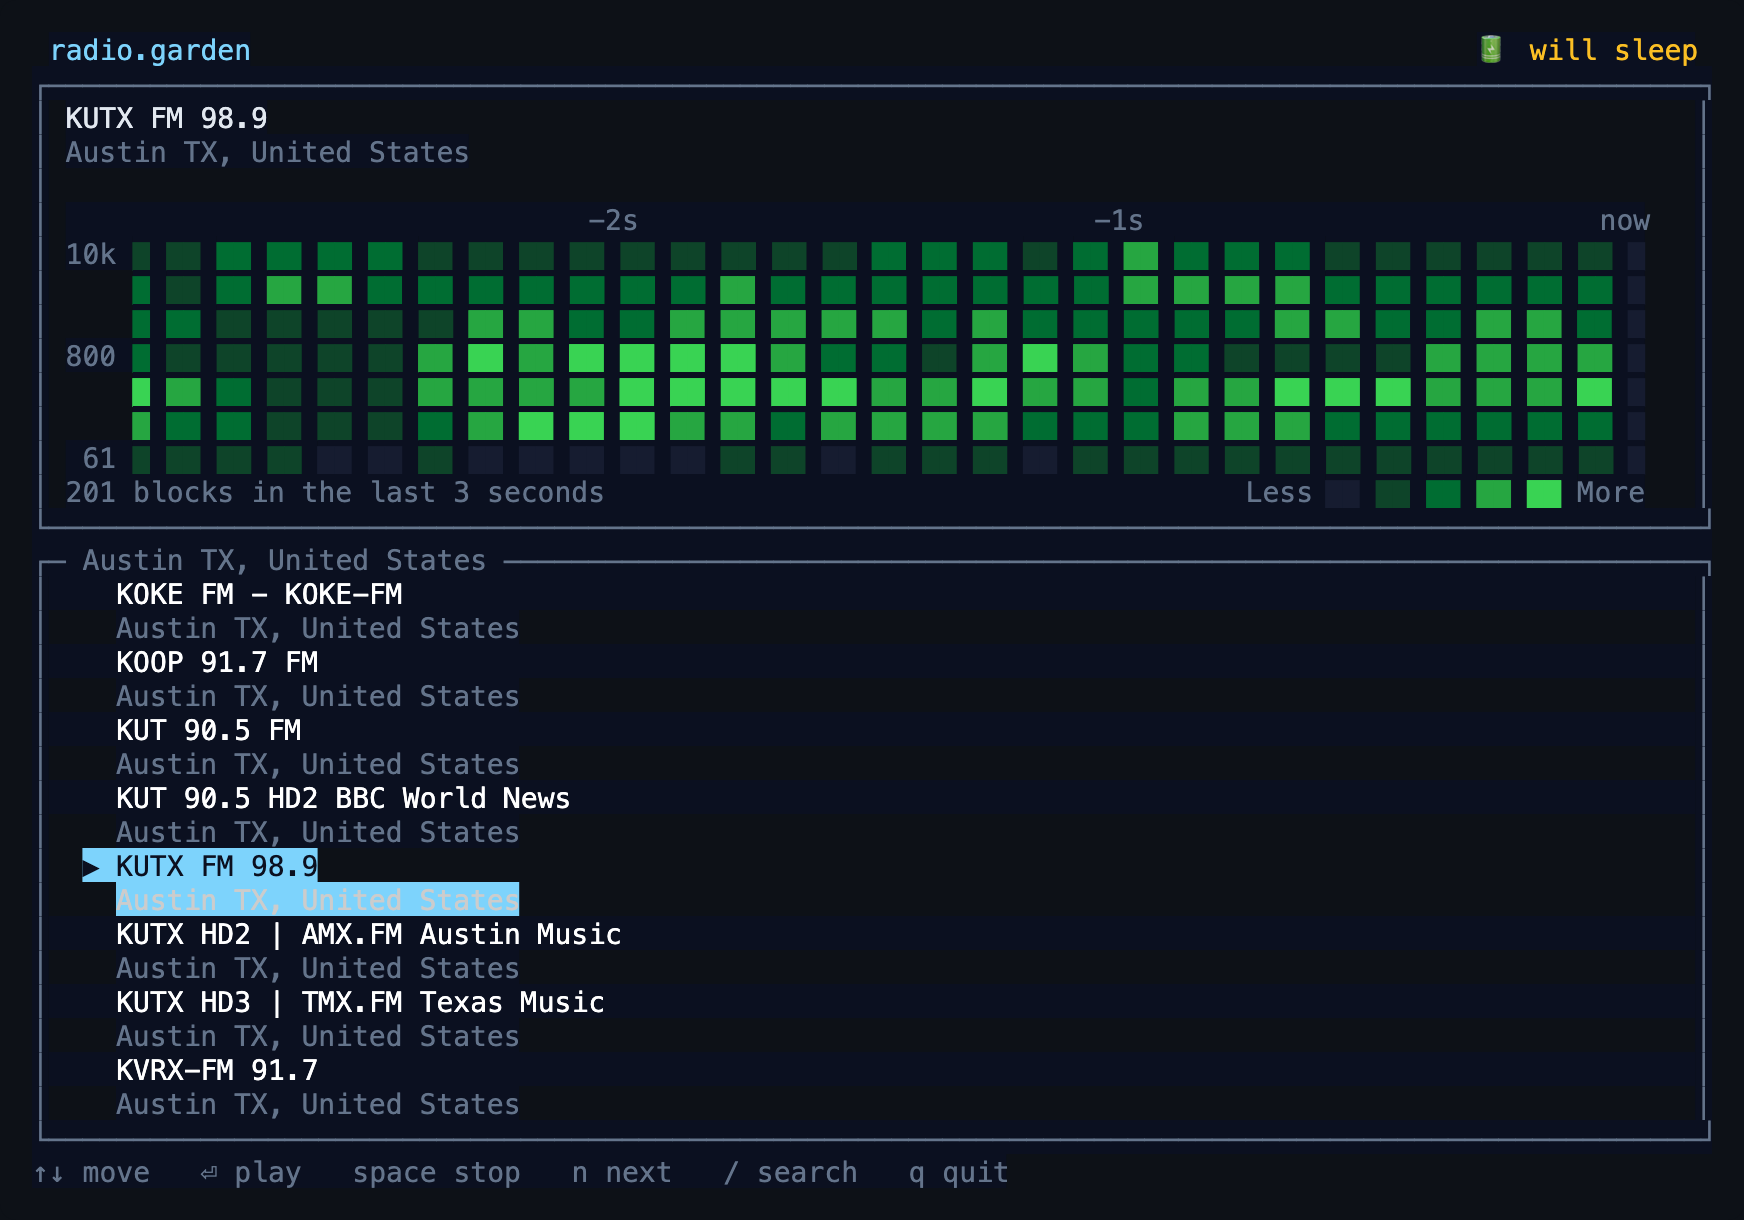
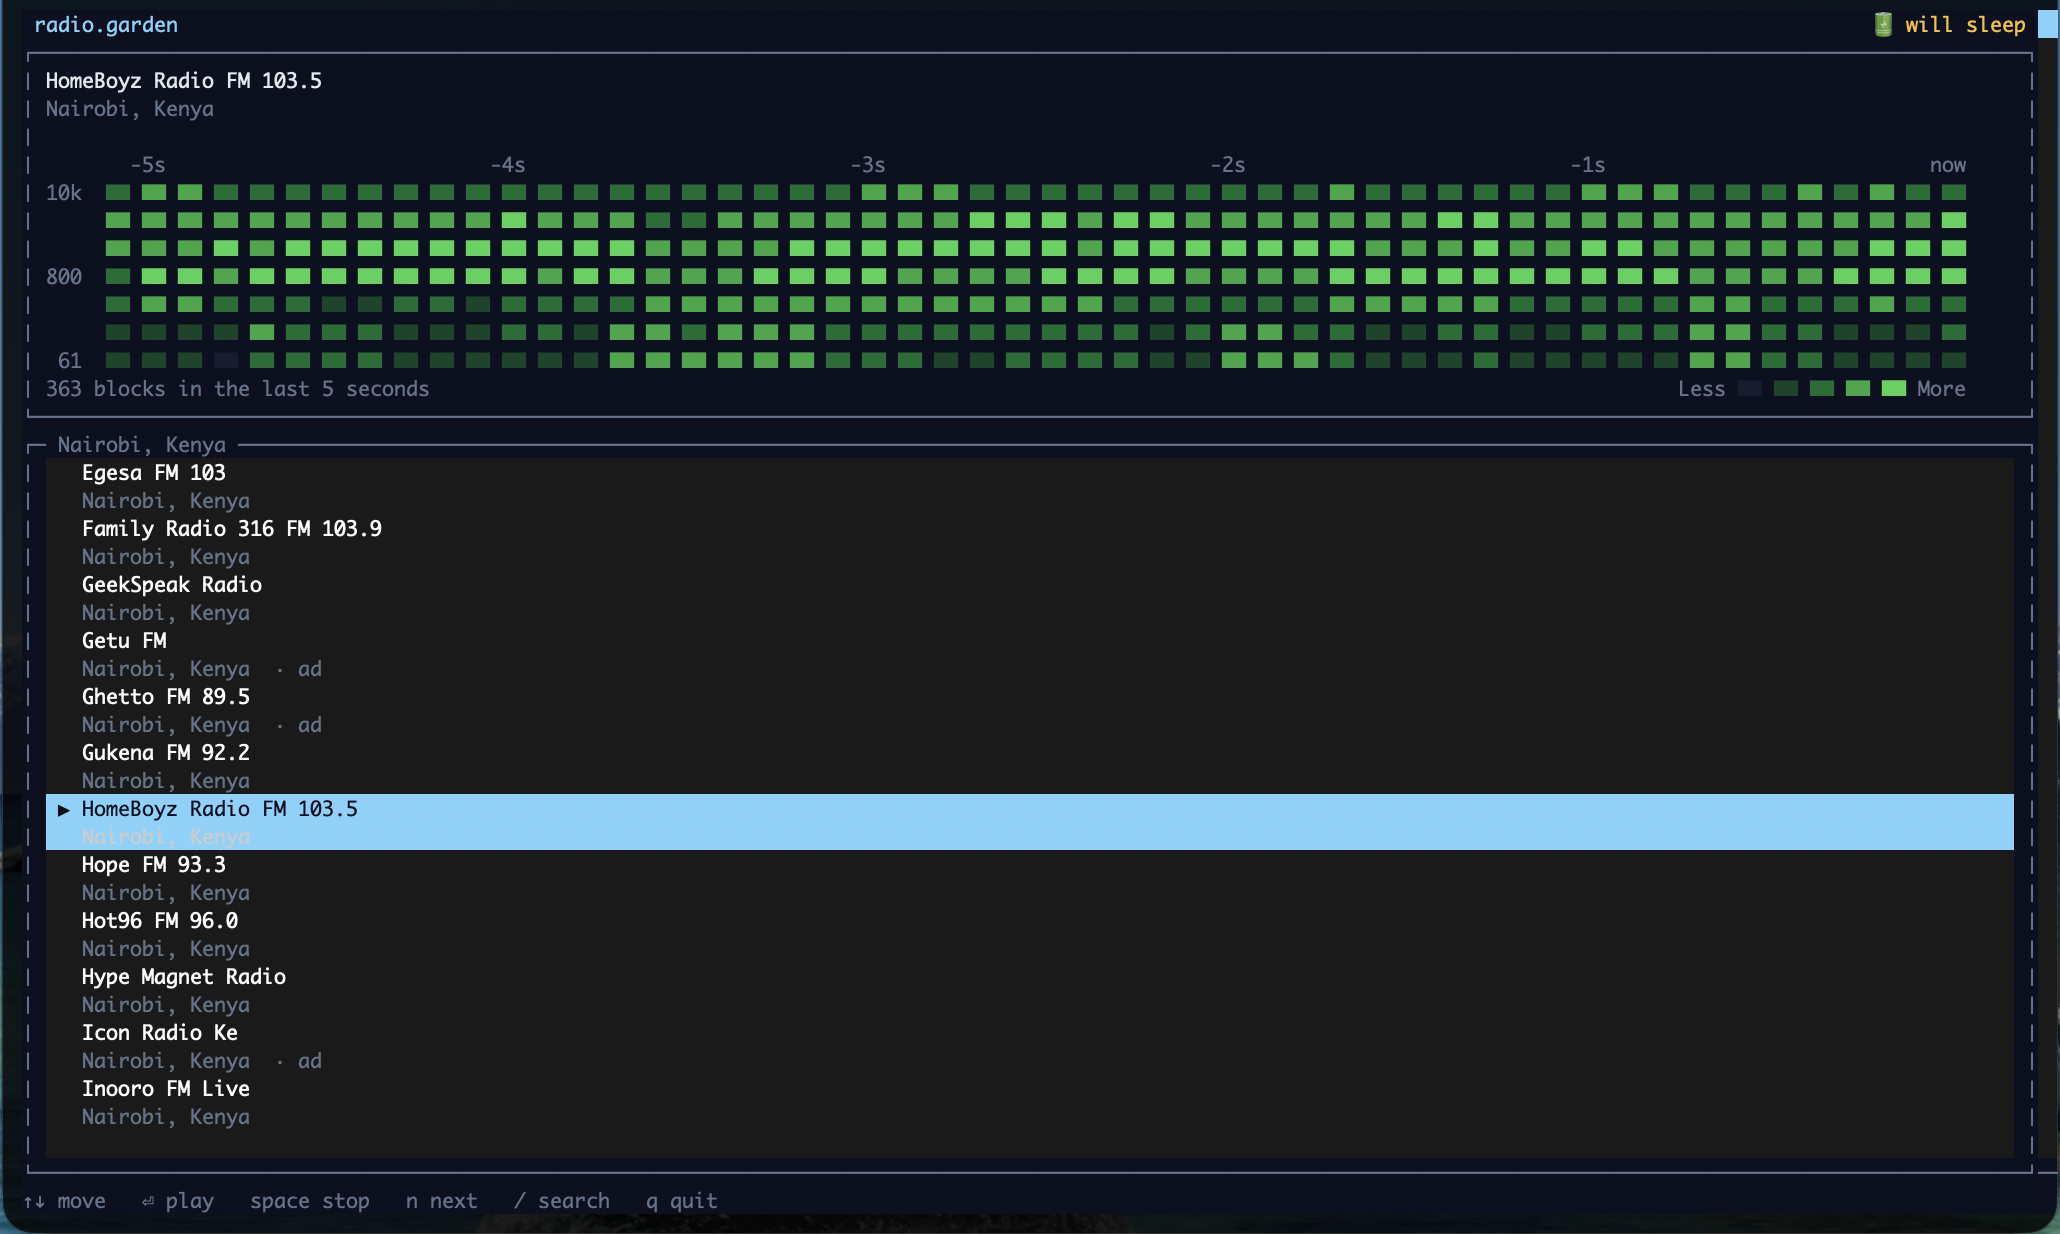
docs: use a real terminal screenshot
Replaces the headless render with an actual screen capture of the app
running, playing HomeBoyz Radio FM 103.5 in Nairobi. Caption updated to
match.

Claude-Session: https://claude.ai/code/session_01TREfznurLMvLu4gviuaC9R

Changed region(s): [[0.0, 0.0, 1.0, 1.0]]

diff --git a/README.md b/README.md
@@ -9,13 +9,13 @@ closed lid, when you're on mains power.
 > is undocumented and unofficial. This project is not affiliated with or endorsed
 > by Radio Garden, and the API may change or disappear without notice.
 
-![radio-garden playing KUTX FM 98.9](doc/screenshot.png)
+![radio-garden playing HomeBoyz Radio FM 103.5, Nairobi](doc/screenshot.png)
 
 Seven log-spaced frequency rows, 40 Hz to 16 kHz, a new column every 100 ms — a
 spectrogram in GitHub's five shades of green. The squares are real FFT output,
 not decoration: a bass-heavy track fills the bottom rows, a cymbal lights the top
-one, and silence empties the grid. The capture above is a real frame, KUTX
-mid-song.
+one, and silence empties the grid. The capture above is live output, not a
+mockup — HomeBoyz Radio FM 103.5 out of Nairobi, five seconds of it.
 
 The grid does not advance a column at a time. A square is three characters wide,
 so the strip slides one character every 33 ms and the leading square is clipped
